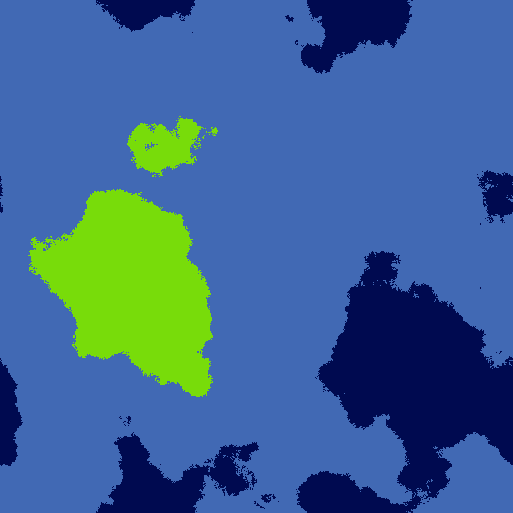
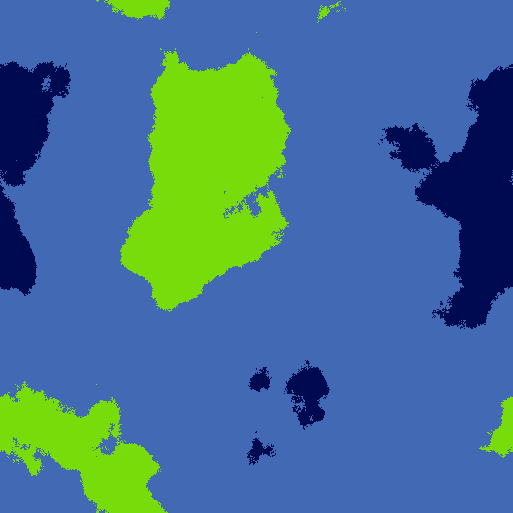
Clouds again

diff --git a/Background.py b/Background.py
@@ -1,6 +1,6 @@
 import pygame
 from PCG import *
-
+import numpy as np
 
 class Background():
 
@@ -21,15 +21,34 @@ class Background():
         self.bgY2 = self.rectBGimg.height
         self.bgX2 = 0
 
+
         self.moving_speed = 5
 
         self.DISPLAYSURF = DISPLAYSURF
 
+        # clouds via perlin noise!
+
+        self.cloud_pixels = self.generate_fractal_noise_2d(shape=(self.rectBGimg.width + 188, self.rectBGimg.height + 388),
+                                                      res=(5,5), octaves=3, persistence=0.5)
+        for kx in range(self.rectBGimg.width):
+            for ky in range(self.rectBGimg.height):
+                c = self.cloud_pixels[kx][ky]
+                col = self.bgimage.get_at((kx, ky))
+                self.bgimage.set_at((kx, ky), (np.min([int(c * 255),255]), np.min([col[1] + (int(c * 255)),255]), np.min([col[2] + (int(c * 255)),255])))
+
+        """
+        #try to take average of the first and last clouds row to blend the results
+        for kx in range(self.rectBGimg.width):
+            top = self.bgimage.get_at((kx, self.rectBGimg.height-1))
+            bottom = self.bgimage.get_at((kx,0))
+            avg = ((top[0]+bottom[0])/2,(top[1]+bottom[1])/2,(top[2]+bottom[2])/2)
+            self.bgimage.set_at((kx, self.rectBGimg.height-1), avg)
+            self.bgimage.set_at((kx,0), avg)
+        """
     def update(self):
-        # self.bgY1 += self.moving_speed
-        self.bgY1 += 0
-        # self.bgY2 += self.moving_speed
-        self.bgY2 += 0
+
+        self.bgY1 += self.moving_speed
+        self.bgY2 += self.moving_speed
         if self.bgY1 >= self.rectBGimg.height:
             self.bgY1 = -self.rectBGimg.height
         if self.bgY2 >= self.rectBGimg.height:
@@ -48,3 +67,64 @@ class Background():
             self.bgY1 = -self.rectBGimg.height
         if self.bgY2 >= self.rectBGimg.height:
             self.bgY2 = -self.rectBGimg.height
+
+    def generate_perlin_noise_2d(self, shape, res):
+        '''
+        :param shape: Size of the map to return
+        :param res: 'cycles' along an axis
+        :return: Noise Map (shape)
+        Creates one layer of the Perlin Noise
+        Taken and adapted from https://pvigier.github.io/2018/06/13/perlin-noise-numpy.html.
+        '''
+
+        def f(t):
+            return 6 * t ** 5 - 15 * t ** 4 + 10 * t ** 3
+
+        delta = (res[0] / shape[0], res[1] / shape[1])
+        d = (shape[0] // res[0], shape[1] // res[1])
+        grid = np.mgrid[0:res[0]:delta[0], 0:res[1]:delta[1]].transpose(1, 2, 0) % 1
+
+        # Gradients
+        angles = 2 * np.pi * np.random.rand(res[0] + 1, res[1] + 1)
+        gradients = np.dstack((np.cos(angles), np.sin(angles)))
+        g00 = gradients[0:-1, 0:-1].repeat(d[0], 0).repeat(d[1], 1)
+        g10 = gradients[1:, 0:-1].repeat(d[0], 0).repeat(d[1], 1)
+        g01 = gradients[0:-1, 1:].repeat(d[0], 0).repeat(d[1], 1)
+        g11 = gradients[1:, 1:].repeat(d[0], 0).repeat(d[1], 1)
+        # Ramps
+        n00 = np.sum(grid * g00, 2)
+        n10 = np.sum(np.dstack((grid[:, :, 0] - 1, grid[:, :, 1])) * g10, 2)
+        n01 = np.sum(np.dstack((grid[:, :, 0], grid[:, :, 1] - 1)) * g01, 2)
+        n11 = np.sum(np.dstack((grid[:, :, 0] - 1, grid[:, :, 1] - 1)) * g11, 2)
+        # Interpolation
+        t = f(grid)
+        n0 = n00 * (1 - t[:, :, 0]) + t[:, :, 0] * n10
+        n1 = n01 * (1 - t[:, :, 0]) + t[:, :, 0] * n11
+        return np.sqrt(2) * ((1 - t[:, :, 1]) * n0 + t[:, :, 1] * n1)
+
+    def generate_fractal_noise_2d(self, shape, res, octaves=1, persistence=0.5):
+        '''
+        :param shape: Size of the map to return
+        :param res: 'cycles' along an axis
+        :param octaves: number of layers of perlin noise
+        :param persistence: overlapping scale of the single layers
+        :return: noise map of overlapping perlin noise layers
+        creates fractal noise via overlap
+        Taken and adapted from https://pvigier.github.io/2018/06/13/perlin-noise-numpy.html.
+        '''
+        noise = np.zeros(shape)
+        frequency = 1
+        amplitude = 1
+        totamp = 0
+        for _ in range(octaves):
+            noise += amplitude * self.generate_perlin_noise_2d(shape, (frequency * res[0], frequency * res[1]))
+            frequency *= 2
+            amplitude *= persistence
+            totamp += amplitude
+        min_value = min([min(x) for x in noise])
+        max_value = max([max(x) for x in noise])
+
+        for i in range(len(noise)):
+            for j in range(len(noise[0])):
+                noise[i][j] = (noise[i][j] - min_value) / (max_value - min_value)
+        return noise

diff --git a/PCG.py b/PCG.py
@@ -156,16 +156,18 @@ def pcg_clouds(noise):  # for multi-layer ds noise
     # snow = (250, 250, 250)
     transparent = (0, 0, 0, 0)
     white = (255, 255, 255, 255)
-
+    '''
     for i in range(width):
         for j in range(height):
-            if noise[i][j] < 0.25:
-                im.putpixel((i, j), white)
+            if noise[i][j] < 0.05:
+                im.putpixel((i, j),(255, 255, 255, 200+int(noise[i][j]*100)))
+            elif noise[i][j] <0.25:
+                im.putpixel((i, j), (255, 255, 255, 170))
             else:
                 im.putpixel((i, j), transparent)
-
+    
     im = add_padding(im, 50, 0, 50, 0, transparent)
-
+    '''
     im.save('pcg_clouds.png')
     return im
     # im.show()
